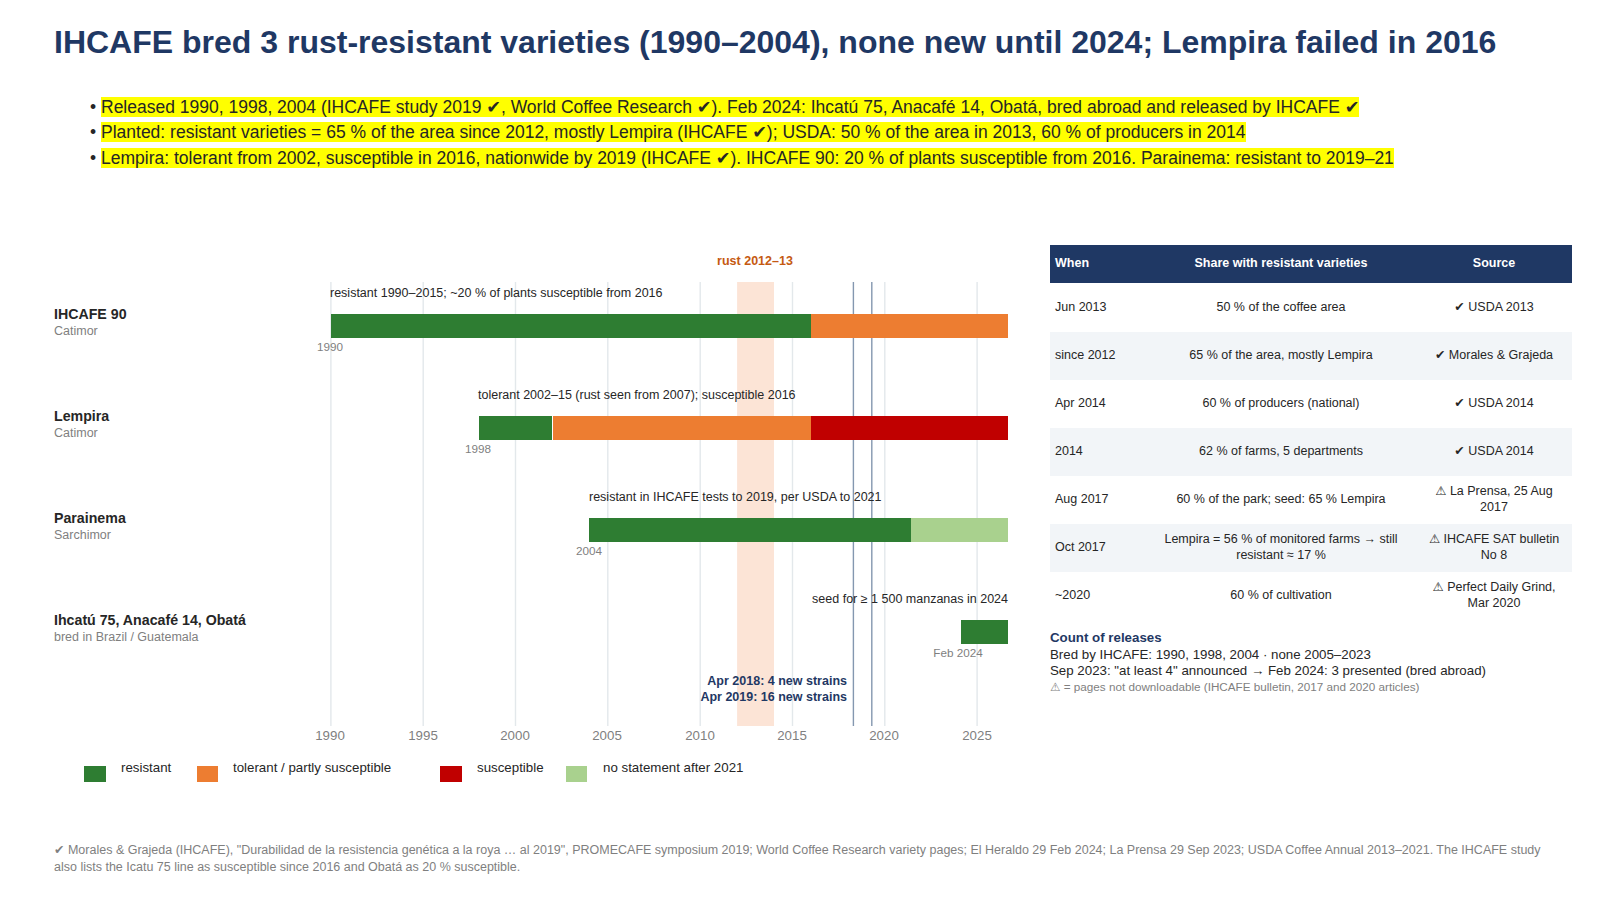
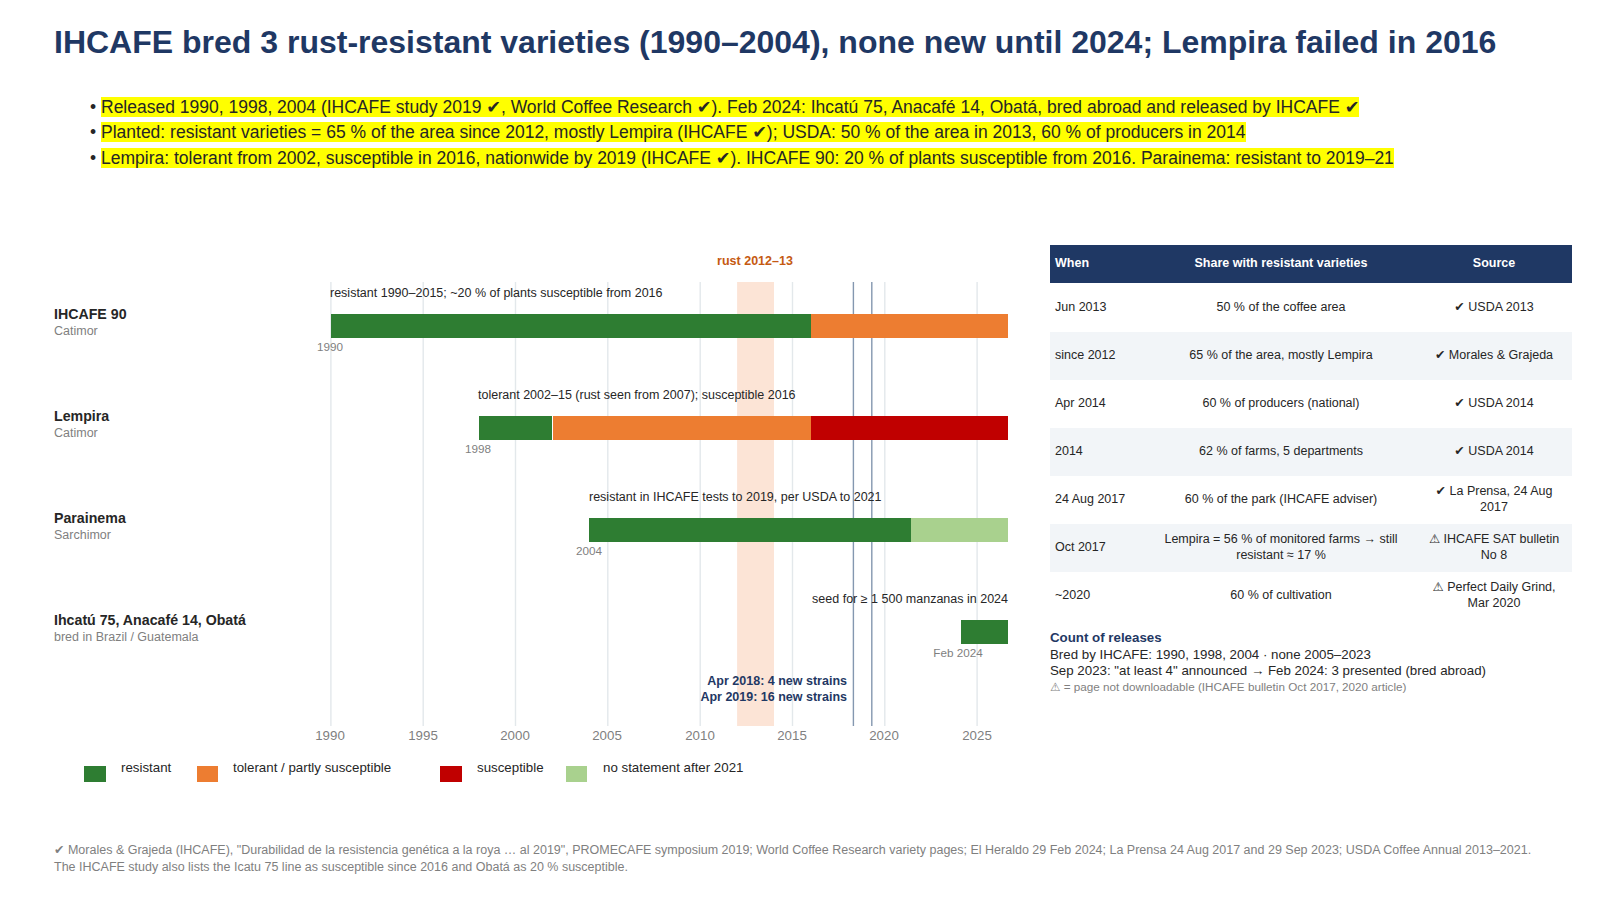
Verify the August 2017 resistant-share figure and drop the unsourced seed-demand split
La Prensa of 24 Aug 2017 (downloaded) confirms 60 % of the national coffee
park in improved rust-resistant plants and IHCAFE 90 at 80 % / Parainema at
100 % resistance to the new strain. The 65 % Lempira seed-demand figure is not
in that article; its source could not be found, so it is removed.

Claude-Session: https://claude.ai/code/session_01GCSUFXh2mYdWNgg7VCeE1G

diff --git a/research/honduras/data/finance_varieties.py b/research/honduras/data/finance_varieties.py
@@ -42,7 +42,7 @@ def farmgate():
 # ---------------------------------------------------------------- varieties (rust-resistant releases by IHCAFE)
 VARIETIES = [
     dict(name='IHCAFE 90', family='Catimor (Timor Hybrid 832/1 × Caturra)', released='1990', year=1990, year_status='DOC',
-         resistance='Resistant 1990–2015; from 2016 about 20 % of plants susceptible to the new rust races (IHCAFE, 2019). USDA 2018: still resistant. World Coffee Research: "recently confirmed susceptible in Honduras"',
+         resistance='Resistant 1990–2015; from 2016 about 20 % of plants susceptible to the new rust races (IHCAFE, 2019); 80 % resistance to the new strain (IHCAFE via La Prensa, 24 Aug 2017). USDA 2018: still resistant. World Coffee Research: "recently confirmed susceptible in Honduras"',
          broke=None, partial=2016,
          src='Morales & Grajeda (IHCAFE), PROMECAFE 24th symposium 2019, table "Durabilidad de resistencia"; GAIN 2018; WCR variety page',
          note='Effective resistance 25 years (IHCAFE).', status='DOC'),
@@ -72,9 +72,8 @@ ADOPTION = [
          quote='the number of coffee producers, growing coffee rust resistant varieties, is moving up to 60 percent and 40 percent of them are still using non-resistant types.'),
     dict(when='2014', scope='5 departments (60 % of area), % of FARMS', resistant=62, status='USDA', src='GAIN 2014 (USDA/TechnoServe baseline)',
          quote='62 percent of the coffee farms had resistant varieties to coffee leaf rust and 38 percent had varieties susceptible'),
-    dict(when='Aug 2017', scope='national coffee park (plants)', resistant=60, status='PRESS', src='La Prensa, 25 Aug 2017 (search extract)',
-         quote='60 % of the national coffee park is improved plants resistant to rust; national seed demand: 65 % Lempira, 25 % Catuaí, 10 % other varieties',
-         seed=dict(Lempira=65, Catuai=25, other=10)),
+    dict(when='24 Aug 2017', scope='national coffee park (plants)', resistant=60, status='DOC', src='La Prensa, 24 Aug 2017 (read, ihcafe_docs3)',
+         quote='En la actualidad, el 60% del parque cafetalero nacional está conformado por plantas mejoradas y resistentes a la roya y otras enfermedades.'),
     dict(when='Oct 2017', scope='farms sampled by the rust early-warning system', resistant=round(100 - 56.08 / 67.74 * 100, 1), lempira=56.08,
          lempira_of_susceptible=67.74, status='PRESS',
          src='IHCAFE SAT bulletin No 8 (search snippet)', quote='Lempira = 56.08 % of sampled farms, 67.74 % of farms classed as susceptible'),
@@ -82,9 +81,9 @@ ADOPTION = [
          quote='about 60 % of Honduran coffee is planted with resistant varieties (Lempira, IHCAFE 90, Parainema)'),
 ]
 # Resistance of the three IHCAFE varieties to the new rust strain (IHCAFE via La Prensa, Aug 2017; search extract)
-NEW_STRAIN_RESISTANCE = dict(when='Aug 2017', status='PRESS', src='La Prensa, 25 Aug 2017 (search extract)',
+NEW_STRAIN_RESISTANCE = dict(when='24 Aug 2017', status='DOC', src='La Prensa, 24 Aug 2017 (read, ihcafe_docs3)',
                              values={'Lempira': 0, 'IHCAFE 90': 80, 'Parainema': 100},
-                             quote='Lempira is not immune to the new rust strain; IHCAFE 90 has 80 % resistance to it and Parainema 100 %')
+                             quote='se descubrió que la Lempira no es inmune a la nueva roya ... mientras que el Ihcafé-90 tiene un 80% de resistencia a la nueva cepa y el Parainema, un 100%.')
 RENOVATION_VARIETIES = dict(when='2024-2026', status='PRESS', src='La Prensa / El Heraldo, IHCAFE seed programme (search extract)',
                             varieties=['Parainema', 'Obatá SHN', 'Ihcatú 75', 'IHCAFE 90', 'Anacafé 14 SHN'],
                             quote='varieties distributed for renovation: Parainema, Obatá, IHCATU 75, IHCAFE 90 and Anacafé 14')

diff --git a/research/honduras/slides/build_finance_deck.py b/research/honduras/slides/build_finance_deck.py
@@ -161,7 +161,7 @@ def slide_varieties():
                                    (PALE, 'no statement after 2021', 'box')], sz=8)
     rows = [['When', 'Share with resistant varieties', 'Source']]
     what = {'Jun 2013': '%d %% of the coffee area', 'since 2012': '%d %% of the area, mostly Lempira', 'Apr 2014': '%d %% of producers (national)',
-            '2014': '%d %% of farms, 5 departments', 'Aug 2017': '%d %% of the park; seed: 65 %% Lempira', '~2020': '%d %% of cultivation'}
+            '2014': '%d %% of farms, 5 departments', '24 Aug 2017': '%d %% of the park (IHCAFE adviser)', '~2020': '%d %% of cultivation'}
     for a in FV.ADOPTION:
         if a['when'] == 'Oct 2017':
             txt = 'Lempira = %s %% of monitored farms → still resistant ≈ %s %%' % (fr(a['lempira'], 0), fr(a['resistant'], 0))
@@ -173,9 +173,9 @@ def slide_varieties():
     p.text(8.75, yb + 0.08, 4.35, 1.1, [('Count of releases', dict(b=True, color=NAVY)),
                                         ('Bred by IHCAFE: 1990, 1998, 2004 · none 2005–2023', {}),
                                         ('Sep 2023: "at least 4" announced → Feb 2024: 3 presented (bred abroad)', {}),
-                                        ('⚠ = pages not downloadable (IHCAFE bulletin, 2017 and 2020 articles)', dict(color=GREY, sz=7))], sz=8)
+                                        ('⚠ = page not downloadable (IHCAFE bulletin Oct 2017, 2020 article)', dict(color=GREY, sz=7))], sz=8)
     p.source('✔ Morales & Grajeda (IHCAFE), "Durabilidad de la resistencia genética a la roya … al 2019", PROMECAFE symposium 2019; World Coffee Research variety pages; '
-             'El Heraldo 29 Feb 2024; La Prensa 29 Sep 2023; USDA Coffee Annual 2013–2021. The IHCAFE study also lists the Icatu 75 line as susceptible since 2016 and Obatá as 20 % susceptible.')
+             'El Heraldo 29 Feb 2024; La Prensa 24 Aug 2017 and 29 Sep 2023; USDA Coffee Annual 2013–2021. The IHCAFE study also lists the Icatu 75 line as susceptible since 2016 and Obatá as 20 % susceptible.')
     return p
 
 

diff --git a/research/honduras/excel/build_drivers_xlsx.py b/research/honduras/excel/build_drivers_xlsx.py
@@ -310,12 +310,9 @@ est = [('Lempira, % of all monitored farms', 56.08, None, IN2),
        ('Farms with susceptible varieties, % of all monitored farms', 56.08 / 67.74 * 100, 'B%d/B%d*100' % (E0, E0 + 1), F1),
        ('Farms still with a resistant variety (IHCAFE 90, Parainema, others), %', 100 - 56.08 / 67.74 * 100, '100-B%d' % (E0 + 2), F1),
        ('Same farms before Lempira failed (Lempira + other resistant), %', 56.08 + 100 - 56.08 / 67.74 * 100, 'B%d+B%d' % (E0, E0 + 3), F1),
-       ('For comparison: share of the whole park in "resistant" varieties, Aug 2017 (La Prensa ⚠)', 60, None, IN0),
-       ('Resistance of IHCAFE 90 to the new strain, % (IHCAFE via La Prensa, Aug 2017 ⚠)', 80, None, IN0),
-       ('Resistance of Parainema to the new strain, % (same source ⚠)', 100, None, IN0),
-       ('Seed demand 2017: Lempira, % (La Prensa ⚠)', 65, None, IN0),
-       ('Seed demand 2017: other varieties (not Catuaí), %', 10, None, IN0),
-       ('Lempira share of the resistant seed sold in 2017, at least', 65 / 75, 'B%d/(B%d+B%d)' % (E0 + 8, E0 + 8, E0 + 9), Style(fmt='0.0%'))]
+       ('For comparison: share of the whole park in "resistant" varieties, 24 Aug 2017 (La Prensa, read)', 60, None, IN0),
+       ('Resistance of IHCAFE 90 to the new strain, % (IHCAFE via La Prensa, 24 Aug 2017, read)', 80, None, IN0),
+       ('Resistance of Parainema to the new strain, % (same source, read)', 100, None, IN0)]
 for k, (lab, val, f, st_) in enumerate(est):
     vt.set(E0 + k, 1, lab, WRAP)
     vt.set(E0 + k, 2, val, st_, f)
